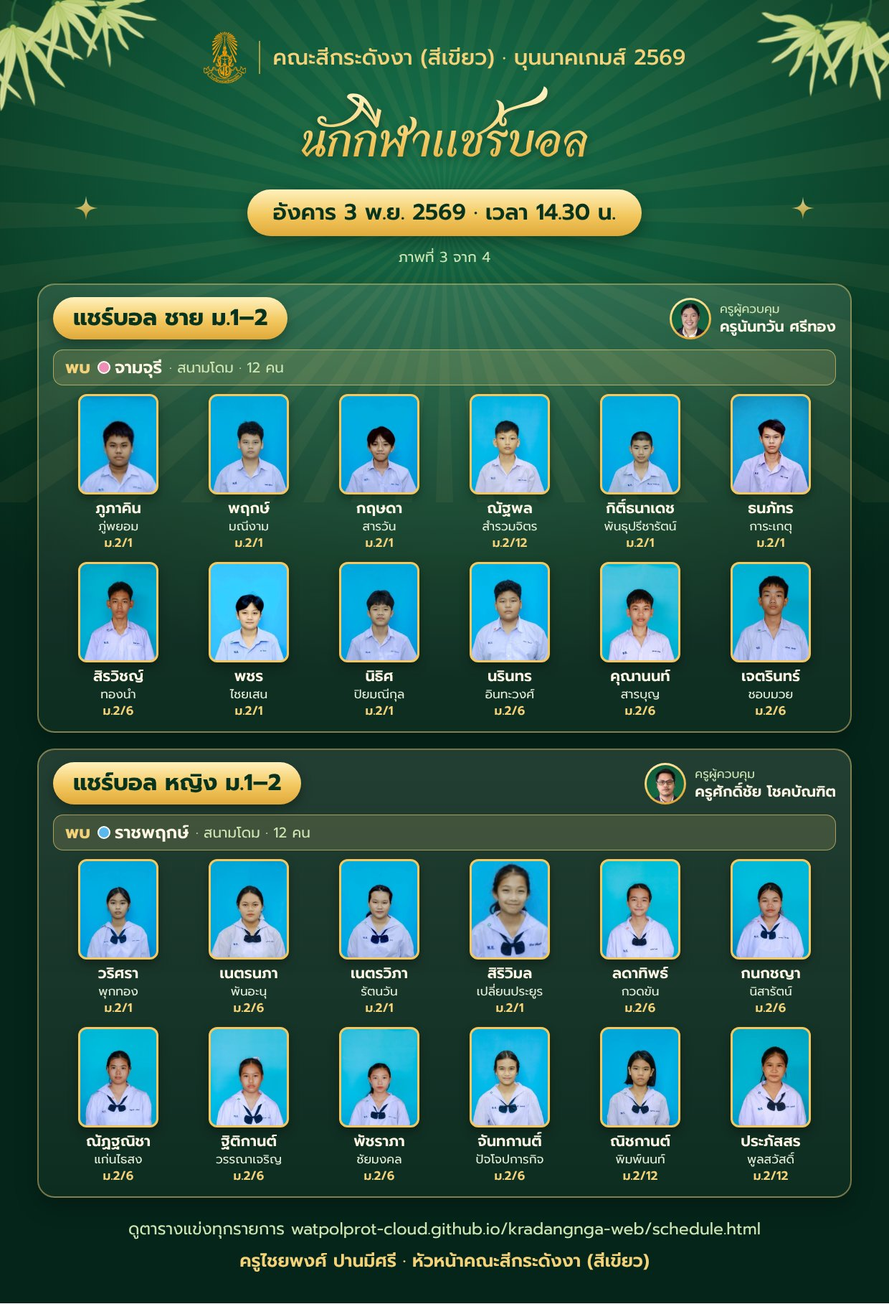
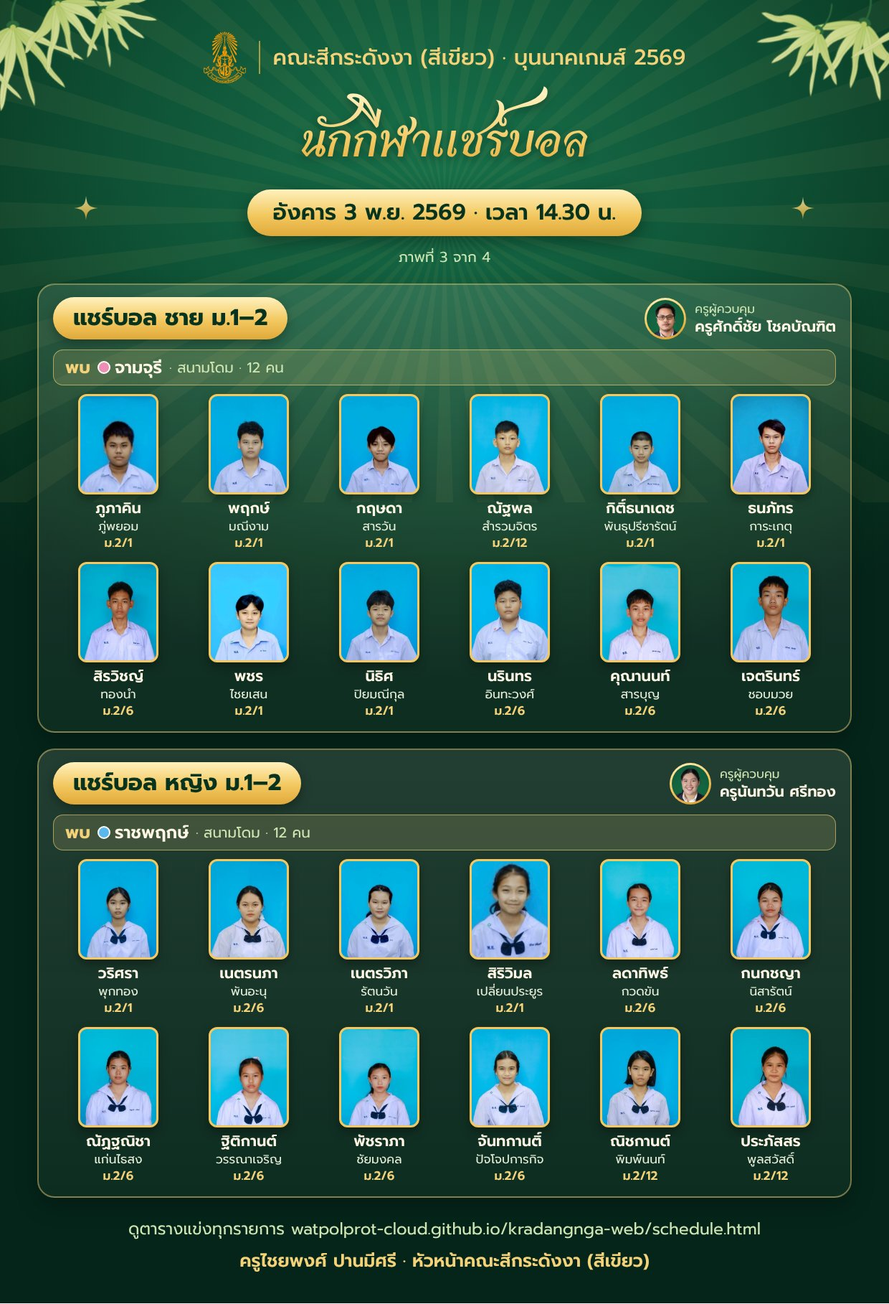
สลับครูผู้ควบคุมแชร์บอล: ชาย ม.1–2 ครูศักดิ์ชัย หญิง ม.1–2 ครูนันทวัน + ภาพ info 3 พ.ย. ฉบับแก้ไข 3
Claude-Session: https://claude.ai/code/session_01LjaNA52Jk9fgkbivbZznUW

Changed region(s): [[0.7048, 0.2157, 0.95, 0.2774], [0.7048, 0.5856, 0.95, 0.6164]]

diff --git a/data/news.js b/data/news.js
@@ -8,7 +8,7 @@ window.KD = window.KD || {};
 KD.news = [
   { date: "2026-11-02", type: "บุนนาคเกมส์", title: "พรุ่งนี้ 3 พ.ย. สีเขียวลงแข่ง 10 รายการ วอลเลย์บอล บาสเกตบอล 3×3 แชร์บอล เปตอง แบดมินตัน · พุธ 4 พ.ย. แข่งต่ออีก 8 รายการ", image: "news_match_2569-11-03.jpg",
     body: "ครูไชยพงศ์ ปานมีศรี หัวหน้าคณะสีกระดังงา (สีเขียว) แจ้งนักกีฬาและครูผู้ควบคุม พรุ่งนี้วันอังคารที่ 3 พฤศจิกายน 2569 เวลา 14.30 น. สีเขียวลงแข่งกีฬาภายในบุนนาคเกมส์ 2569 คู่ที่ 1 รวม 10 รายการ ที่โดม ได้แก่ วอลเลย์บอลชาย ม.1–6 พบจามจุรี วอลเลย์บอลหญิง ม.1–6 พบจามจุรี บาสเกตบอล 3×3 ชาย พบราชพฤกษ์ บาสเกตบอล 3×3 หญิง พบศรีตรัง แชร์บอลชาย ม.1–2 พบจามจุรี แชร์บอลหญิง ม.1–2 พบราชพฤกษ์ ที่ยิม 50 ปี เปตองหญิง ม.1–3 พบราชพฤกษ์ เปตองหญิง ม.4–6 พบจามจุรี และที่ยิมแบด แบดมินตันชาย ม.4–6 พบปาริชาต แบดมินตันหญิง ม.4–6 พบศรีตรัง ทีมที่ชนะได้ไปแข่งคู่ที่ 3 วันพุธที่ 11 พ.ย. 2569 ส่วนวันพุธที่ 4 พฤศจิกายน 2569 เวลา 14.30 น. แข่งต่ออีก 8 รายการ ได้แก่ ตะกร้อชาย ม.1–3 และ ม.4–6 เทเบิลเทนนิสชาย ม.4–6 และหญิง ม.1–3 เปตองชาย ม.1–3 และ ม.4–6 E-sport ROV และ Mobile Legends นักกีฬาเตรียมชุดกีฬาให้พร้อม รายงานตัวกับครูผู้ควบคุมที่สนามก่อนเวลาแข่ง ครูผู้ควบคุมพิมพ์ทะเบียนนักกีฬาที่มีลายเซ็นแม่สีจากหน้าทะเบียนนักกีฬาบนเว็บนำไปด้วย ดูรูปนักกีฬาทุกรายการได้ในภาพ info ทั้ง 4 ภาพ",
-    table: { summary: "ดูรายการแข่ง 3 และ 4 พ.ย. ครบทุกรายการ", head: ["วัน", "รายการ", "พบ", "สนาม", "ครูผู้ควบคุม", "นักกีฬา"], rows: [["อ. 3 พ.ย.", "วอลเลย์บอล ชาย ม.1–6", "จามจุรี (สีชมพู)", "โดม", "ครูมาริษา ปรัชชัยกูล และ ครูมนตรี ฉิมเจริญ", "12"], ["อ. 3 พ.ย.", "วอลเลย์บอล หญิง ม.1–6", "จามจุรี (สีชมพู)", "โดม", "ครูมาริษา ปรัชชัยกูล และ ครูมนตรี ฉิมเจริญ", "12"], ["อ. 3 พ.ย.", "บาสเกตบอล 3×3 ชาย ม.1–6", "ราชพฤกษ์ (สีฟ้า)", "โดม", "ครูปัจฉิมา นินเคนที", "6"], ["อ. 3 พ.ย.", "บาสเกตบอล 3×3 หญิง ม.1–6", "ศรีตรัง (สีแดง)", "โดม", "ครูปัจฉิมา นินเคนที", "6"], ["อ. 3 พ.ย.", "แชร์บอล ชาย ม.1–2", "จามจุรี (สีชมพู)", "โดม", "ครูนันทวัน ศรีทอง", "12"], ["อ. 3 พ.ย.", "แชร์บอล หญิง ม.1–2", "ราชพฤกษ์ (สีฟ้า)", "โดม", "ครูศักดิ์ชัย โชคบัณฑิต", "12"], ["อ. 3 พ.ย.", "เปตอง หญิง ม.1–3", "ราชพฤกษ์ (สีฟ้า)", "ยิม 50 ปี", "ครูศุภาวรรณ จันทะมูล", "3"], ["อ. 3 พ.ย.", "เปตอง หญิง ม.4–6", "จามจุรี (สีชมพู)", "ยิม 50 ปี", "ครูศุภาวรรณ จันทะมูล", "5"], ["อ. 3 พ.ย.", "แบดมินตัน ชาย ม.4–6", "ปาริชาต (สีน้ำเงิน)", "ยิมแบด", "ครูณัฐนนท์ ลิ้มทองคำ", "2"], ["อ. 3 พ.ย.", "แบดมินตัน หญิง ม.4–6", "ศรีตรัง (สีแดง)", "ยิมแบด", "ครูธนิษฐา ดีสม", "2"], ["พ. 4 พ.ย.", "ตะกร้อ ชาย ม.1–3", "ศรีตรัง (สีแดง)", "โดม", "ครูกาญจณ์สุดา รัตนพร", "5"], ["พ. 4 พ.ย.", "ตะกร้อ ชาย ม.4–6", "ราชพฤกษ์ (สีฟ้า)", "โดม", "ครูลลิตา อินไชยา", "5"], ["พ. 4 พ.ย.", "เทเบิลเทนนิส ชาย ม.4–6", "จามจุรี (สีชมพู)", "ยิมแบด", "ครูมนัสวี อ้นสนกราน", "1"], ["พ. 4 พ.ย.", "เทเบิลเทนนิส หญิง ม.1–3", "จามจุรี (สีชมพู)", "ยิมแบด", "รอแจ้ง", "1"], ["พ. 4 พ.ย.", "เปตอง ชาย ม.1–3", "จามจุรี (สีชมพู)", "ยิม 50 ปี", "ครูศุภาวรรณ จันทะมูล", "5"], ["พ. 4 พ.ย.", "เปตอง ชาย ม.4–6", "ราชพฤกษ์ (สีฟ้า)", "ยิม 50 ปี", "ครูจุฬาลักษณ์ กุลบุตรดี", "4"], ["พ. 4 พ.ย.", "E-sport ROV", "ศรีตรัง (สีแดง)", "ห้องปฏิบัติการคอมพิวเตอร์ 1", "ครูภวภัค จินนุกูล", "7"], ["พ. 4 พ.ย.", "E-sport Mobile Legends", "จามจุรี (สีชมพู)", "ห้องปฏิบัติการคอมพิวเตอร์ 1", "ครูธวัชชัย พาลาศรี", "6"]] },
+    table: { summary: "ดูรายการแข่ง 3 และ 4 พ.ย. ครบทุกรายการ", head: ["วัน", "รายการ", "พบ", "สนาม", "ครูผู้ควบคุม", "นักกีฬา"], rows: [["อ. 3 พ.ย.", "วอลเลย์บอล ชาย ม.1–6", "จามจุรี (สีชมพู)", "โดม", "ครูมาริษา ปรัชชัยกูล และ ครูมนตรี ฉิมเจริญ", "12"], ["อ. 3 พ.ย.", "วอลเลย์บอล หญิง ม.1–6", "จามจุรี (สีชมพู)", "โดม", "ครูมาริษา ปรัชชัยกูล และ ครูมนตรี ฉิมเจริญ", "12"], ["อ. 3 พ.ย.", "บาสเกตบอล 3×3 ชาย ม.1–6", "ราชพฤกษ์ (สีฟ้า)", "โดม", "ครูปัจฉิมา นินเคนที", "6"], ["อ. 3 พ.ย.", "บาสเกตบอล 3×3 หญิง ม.1–6", "ศรีตรัง (สีแดง)", "โดม", "ครูปัจฉิมา นินเคนที", "6"], ["อ. 3 พ.ย.", "แชร์บอล ชาย ม.1–2", "จามจุรี (สีชมพู)", "โดม", "ครูศักดิ์ชัย โชคบัณฑิต", "12"], ["อ. 3 พ.ย.", "แชร์บอล หญิง ม.1–2", "ราชพฤกษ์ (สีฟ้า)", "โดม", "ครูนันทวัน ศรีทอง", "12"], ["อ. 3 พ.ย.", "เปตอง หญิง ม.1–3", "ราชพฤกษ์ (สีฟ้า)", "ยิม 50 ปี", "ครูศุภาวรรณ จันทะมูล", "3"], ["อ. 3 พ.ย.", "เปตอง หญิง ม.4–6", "จามจุรี (สีชมพู)", "ยิม 50 ปี", "ครูศุภาวรรณ จันทะมูล", "5"], ["อ. 3 พ.ย.", "แบดมินตัน ชาย ม.4–6", "ปาริชาต (สีน้ำเงิน)", "ยิมแบด", "ครูณัฐนนท์ ลิ้มทองคำ", "2"], ["อ. 3 พ.ย.", "แบดมินตัน หญิง ม.4–6", "ศรีตรัง (สีแดง)", "ยิมแบด", "ครูธนิษฐา ดีสม", "2"], ["พ. 4 พ.ย.", "ตะกร้อ ชาย ม.1–3", "ศรีตรัง (สีแดง)", "โดม", "ครูกาญจณ์สุดา รัตนพร", "5"], ["พ. 4 พ.ย.", "ตะกร้อ ชาย ม.4–6", "ราชพฤกษ์ (สีฟ้า)", "โดม", "ครูลลิตา อินไชยา", "5"], ["พ. 4 พ.ย.", "เทเบิลเทนนิส ชาย ม.4–6", "จามจุรี (สีชมพู)", "ยิมแบด", "ครูมนัสวี อ้นสนกราน", "1"], ["พ. 4 พ.ย.", "เทเบิลเทนนิส หญิง ม.1–3", "จามจุรี (สีชมพู)", "ยิมแบด", "รอแจ้ง", "1"], ["พ. 4 พ.ย.", "เปตอง ชาย ม.1–3", "จามจุรี (สีชมพู)", "ยิม 50 ปี", "ครูศุภาวรรณ จันทะมูล", "5"], ["พ. 4 พ.ย.", "เปตอง ชาย ม.4–6", "ราชพฤกษ์ (สีฟ้า)", "ยิม 50 ปี", "ครูจุฬาลักษณ์ กุลบุตรดี", "4"], ["พ. 4 พ.ย.", "E-sport ROV", "ศรีตรัง (สีแดง)", "ห้องปฏิบัติการคอมพิวเตอร์ 1", "ครูภวภัค จินนุกูล", "7"], ["พ. 4 พ.ย.", "E-sport Mobile Legends", "จามจุรี (สีชมพู)", "ห้องปฏิบัติการคอมพิวเตอร์ 1", "ครูธวัชชัย พาลาศรี", "6"]] },
     link: "assets/img/gallery/info_match_2569-11-03_1.jpg", linkText: "เปิดภาพ info รายการแข่ง 3 พ.ย. (ภาพรวม)", link2: "schedule.html", linkText2: "ดูตารางแข่งทุกรายการ" },
   { date: "2026-11-02", type: "บุนนาคเกมส์", title: "ขอบคุณและยินดีด้วย สีเขียวได้อันดับ 1 การเข้าแถวคณะสี วันจันทร์ที่ 2 พ.ย. 2569 ร่วมกับสีฟ้า", image: "news_lineup_result_2569-11-02_v2.jpg",
     body: "โรงเรียนประกาศผลการเข้าแถวคณะสี ประจำวันจันทร์ที่ 2 พฤศจิกายน 2569 คณะสีกระดังงา (สีเขียว) ได้อันดับ 1 ร่วมกับราชพฤกษ์ (สีฟ้า) อันดับ 2 ศรีตรัง (สีแดง) และอันดับ 3 ปาริชาติ (สีน้ำเงิน) กับจามจุรี (สีชมพู) ครูไชยพงศ์ ปานมีศรี หัวหน้าคณะสี ขอบคุณครูที่ปรึกษาทุกห้องที่ช่วยกำชับและดูแลแถว ครูเวรตรวจแถวที่มาทำหน้าที่ตั้งแต่เช้า และขอแสดงความยินดีกับนักเรียนสีเขียวทุกคนที่มาตรงเวลา นั่งแถวอย่างมีวินัย ร้องเพลงชาติพร้อมกัน และช่วยกันรักษาความสะอาด ขอให้รักษามาตรฐานนี้ไว้ทุกเช้า นั่งพร้อมในแถวภายใน 07.55 น. ไม่คุย ไม่กิน ร้องเพลงชาติ และไม่ทิ้งขยะ เพื่อคว้ารางวัลถ้วยวินัยบุนนาคเกมส์ ครั้งที่ 77 ไปด้วยกัน",
@@ -81,7 +81,7 @@ KD.news = [
   { date: "2026-10-22", type: "บุนนาคเกมส์", title: "ครูผู้ควบคุมนักกีฬา และวันแข่งขันกีฬา 28 ต.ค. 4 พ.ย. 11 พ.ย.", image: "news_coaches_2569.jpg",
     body: "คณะสีกระดังงา (สีเขียว) ประกาศรายชื่อคุณครูผู้ควบคุมนักกีฬาแต่ละรายการ การแข่งขันกีฬามีทั้งหมด 3 วัน คือ วันพุธที่ 28 ตุลาคม วันพุธที่ 4 พฤศจิกายน และวันพุธที่ 11 พฤศจิกายน 2569 หน้าที่ของครูผู้ควบคุมนักกีฬาคือ ดูแลนักเรียน ส่งนักเรียนเข้าแข่งขัน และอยู่กับนักเรียนตลอดการแข่งขัน ตามกติกา รายการที่ไม่มีครูผู้ควบคุมนำนักกีฬาไปส่งและดูแลจนจบ นักกีฬาจะไม่ได้ลงแข่ง ฝ่ายสวัสดิการ ได้แก่ ครูศจินันท์ ตาตะนันทน์ ครูนฤมล มะโนมัย ครูชนันญภัค คชอาจ ครูประภัสสร แสนศิริ ครูสุรินทร์ภรณ์ แสนหลวง ครูศุภฤกษ์ เชื้อมั่น และขอบใจนักเรียนสีเขียวที่ร่วมสนับสนุนน้ำดื่ม 70 แพ็ค",
     link: "games.html#coaches", linkText: "ดูครูผู้ควบคุมนักกีฬาพร้อมรูป", link2: "assets/img/gallery/info_coaches_2569.jpg", linkText2: "เปิดภาพ info",
-    table: { summary: "ดูรายชื่อครูผู้ควบคุมแต่ละรายการ", head: ["ชนิดกีฬา", "รายการ", "ครูผู้ควบคุม"], rows: [["ฟุตบอล", "ชาย ม.3–6", "ครูนพพล ภาณุสุวัฒน์"], ["ฟุตซอล", "ชาย ม.1–3", "ครูสุภัทรชัย สืบสกุล"], ["ฟุตซอล", "ชาย ม.4–6", "ครูนุกูล แสงวรรณเทศ"], ["วอลเลย์บอล", "ชาย ม.1–6", "ครูมาริษา ปรัชชัยกูล และ ครูมนตรี ฉิมเจริญ"], ["วอลเลย์บอล", "หญิง ม.1–6", "ครูมาริษา ปรัชชัยกูล และ ครูมนตรี ฉิมเจริญ"], ["ตะกร้อ", "ชาย ม.1–3", "ครูกาญจณ์สุดา รัตนพร"], ["ตะกร้อ", "ชาย ม.4–6", "ครูลลิตา อินไชยา"], ["บาสเกตบอล 3×3", "ชาย ม.1–6", "ครูปัจฉิมา นินเคนที"], ["แชร์บอล", "ชาย ม.1–2", "ครูนันทวัน ศรีทอง"], ["แชร์บอล", "หญิง ม.1–2", "ครูศักดิ์ชัย โชคบัณฑิต"], ["เทเบิลเทนนิส", "ชาย ม.1–3", "ครูอนันตกานต์ ทองสมบูรณ์"], ["เทเบิลเทนนิส", "ชาย ม.4–6", "ครูมนัสวี อ้นสนกราน"], ["กรีฑา", "100 เมตร ชาย", "ครูนันทวัน ศรีทอง"], ["กรีฑา", "100 เมตร หญิง", "ครูวราทิพย์ ศรีอ่ำอ่วม"], ["กรีฑา", "200 เมตร ชาย", "ครูอุทัย นุ่นดำ"], ["E-sport", "ROV", "ครูภวภัค จินนุกูล"], ["E-sport", "Free Fire", "ครูธนาวุฒิ อดิษะ"], ["E-sport", "VALORANT", "ครูธวัชชัย พาลาศรี"], ["เปตอง", "ชาย ม.1–3", "ครูศุภาวรรณ จันทะมูล"], ["เปตอง", "ชาย ม.4–6", "ครูจุฬาลักษณ์ กุลบุตรดี"], ["แบดมินตัน", "ชาย ม.1–3", "ครูธนิษฐา ดีสม"], ["แบดมินตัน", "ชาย ม.4–6", "ครูณัฐนนท์ ลิ้มทองคำ"]] } },
+    table: { summary: "ดูรายชื่อครูผู้ควบคุมแต่ละรายการ", head: ["ชนิดกีฬา", "รายการ", "ครูผู้ควบคุม"], rows: [["ฟุตบอล", "ชาย ม.3–6", "ครูนพพล ภาณุสุวัฒน์"], ["ฟุตซอล", "ชาย ม.1–3", "ครูสุภัทรชัย สืบสกุล"], ["ฟุตซอล", "ชาย ม.4–6", "ครูนุกูล แสงวรรณเทศ"], ["วอลเลย์บอล", "ชาย ม.1–6", "ครูมาริษา ปรัชชัยกูล และ ครูมนตรี ฉิมเจริญ"], ["วอลเลย์บอล", "หญิง ม.1–6", "ครูมาริษา ปรัชชัยกูล และ ครูมนตรี ฉิมเจริญ"], ["ตะกร้อ", "ชาย ม.1–3", "ครูกาญจณ์สุดา รัตนพร"], ["ตะกร้อ", "ชาย ม.4–6", "ครูลลิตา อินไชยา"], ["บาสเกตบอล 3×3", "ชาย ม.1–6", "ครูปัจฉิมา นินเคนที"], ["แชร์บอล", "ชาย ม.1–2", "ครูศักดิ์ชัย โชคบัณฑิต"], ["แชร์บอล", "หญิง ม.1–2", "ครูนันทวัน ศรีทอง"], ["เทเบิลเทนนิส", "ชาย ม.1–3", "ครูอนันตกานต์ ทองสมบูรณ์"], ["เทเบิลเทนนิส", "ชาย ม.4–6", "ครูมนัสวี อ้นสนกราน"], ["กรีฑา", "100 เมตร ชาย", "ครูนันทวัน ศรีทอง"], ["กรีฑา", "100 เมตร หญิง", "ครูวราทิพย์ ศรีอ่ำอ่วม"], ["กรีฑา", "200 เมตร ชาย", "ครูอุทัย นุ่นดำ"], ["E-sport", "ROV", "ครูภวภัค จินนุกูล"], ["E-sport", "Free Fire", "ครูธนาวุฒิ อดิษะ"], ["E-sport", "VALORANT", "ครูธวัชชัย พาลาศรี"], ["เปตอง", "ชาย ม.1–3", "ครูศุภาวรรณ จันทะมูล"], ["เปตอง", "ชาย ม.4–6", "ครูจุฬาลักษณ์ กุลบุตรดี"], ["แบดมินตัน", "ชาย ม.1–3", "ครูธนิษฐา ดีสม"], ["แบดมินตัน", "ชาย ม.4–6", "ครูณัฐนนท์ ลิ้มทองคำ"]] } },
   { date: "2026-10-22", type: "ประกาศ", title: "วันเปิดภาคเรียน 26 ต.ค. เข้าแถวเคารพธงชาติตามคณะสี", image: "news_assembly_2569-2_v2.jpg",
     body: "วันจันทร์ที่ 26 ตุลาคม 2569 วันเปิดภาคเรียนที่ 2 นักเรียนเข้าแถวเคารพธงชาติตามคณะสี ตามผังการเข้าแถวภาคเรียนที่ 2 ปีการศึกษา 2569 คณะสีกระดังงา (สีเขียว) อยู่แถวที่ 3 ซึ่งเป็นแถวกลาง นับจากฝั่งอาคาร 1 อยู่ระหว่างคณะสีราชพฤกษ์ (ฟ้า) กับคณะสีศรีตรัง (แดง) หันหน้าไปทางเวที ในแถวของสีเขียวเรียงตามระดับชั้นจาก ม.6 ฝั่งอาคาร 1 ไปจนถึง ม.1 ฝั่งเสาธงชาติ นักเรียนสีเขียวมองหาธงคณะสีเขียวหน้าแถว แล้วต่อแถวตามระดับชั้นของตนเอง ห้องของสีเขียวมี 17 ห้อง ได้แก่ ม.6/3 ม.6/9 ม.6/14 · ม.5/4 ม.5/7 ม.5/11 · ม.4/2 ม.4/8 ม.4/13 · ม.3/5 ม.3/7 ม.3/12 · ม.2/1 ม.2/6 ม.2/12 · ม.1/4 ม.1/10 ในช่องของแต่ละระดับชั้น ห้องเลขน้อยอยู่ทางขวา ห้องเลขมากอยู่ทางซ้าย ดูครูที่ปรึกษาและจำนวนนักเรียนของแต่ละห้องได้โดยกดที่ห้องในผังบนหน้าทำเนียบนักเรียน ครูที่ปรึกษาช่วยแจ้งนักเรียนในห้องและดูแลการเข้าแถว ถ้าสงสัยสอบถามครูที่ปรึกษาหรือครูไชยพงศ์ ปานมีศรี หัวหน้าคณะสีได้เลย",
     link: "students.html#rooms", linkText: "กดดูข้อมูลแต่ละห้อง",

diff --git a/data/coaches.js b/data/coaches.js
@@ -1,4 +1,4 @@
-// ครูคณะสีกระดังงาผู้ควบคุมนักกีฬา บุนนาคเกมส์ 2569 (ข้อมูลจากพี่ต้น 22 ต.ค. 2569 · เพิ่มครูผู้ควบคุม Mobile Legends 26 ต.ค. 2569 · วันแข่งปรับตามตารางแข่งฉบับล่าสุด 2 พ.ย. 2569 · ครูผู้ควบคุมบาส 3×3 หญิง เปตองหญิง 2 รุ่น และแบดมินตันหญิง ม.4–6 จากพี่ต้น 2 พ.ย. 2569)
+// ครูคณะสีกระดังงาผู้ควบคุมนักกีฬา บุนนาคเกมส์ 2569 (ข้อมูลจากพี่ต้น 22 ต.ค. 2569 · เพิ่มครูผู้ควบคุม Mobile Legends 26 ต.ค. 2569 · วันแข่งปรับตามตารางแข่งฉบับล่าสุด 2 พ.ย. 2569 · ครูผู้ควบคุมบาส 3×3 หญิง เปตองหญิง 2 รุ่น และแบดมินตันหญิง ม.4–6 จากพี่ต้น 2 พ.ย. 2569 · สลับครูแชร์บอลชาย/หญิง ตามพี่ต้น 2 พ.ย. 2569)
 // coaches: รายการแข่งขัน -> ครูสีเขียวที่ดูแล (pending = จำนวนครูที่ยังรอประกาศชื่อ) · ชื่อครูต้องตรงกับ data/teachers.js เพื่อดึงรูป
 window.KD = window.KD || {};
 KD.coachMeta = {
@@ -73,8 +73,8 @@ KD.coaches = [
   {"no": 4, "sport": "ตะกร้อ", "div": "หญิง ม.1–6", "teachers": [], "pending": 0},
   {"no": 5, "sport": "บาสเกตบอล 3×3", "div": "ชาย ม.1–6", "teachers": ["ครูปัจฉิมา นินเคนที"], "pending": 0},
   {"no": 5, "sport": "บาสเกตบอล 3×3", "div": "หญิง ม.1–6", "teachers": ["ครูปัจฉิมา นินเคนที"], "pending": 0},
-  {"no": 6, "sport": "แชร์บอล", "div": "ชาย ม.1–2", "teachers": ["ครูนันทวัน ศรีทอง"], "pending": 0},
-  {"no": 6, "sport": "แชร์บอล", "div": "หญิง ม.1–2", "teachers": ["ครูศักดิ์ชัย โชคบัณฑิต"], "pending": 0},
+  {"no": 6, "sport": "แชร์บอล", "div": "ชาย ม.1–2", "teachers": ["ครูศักดิ์ชัย โชคบัณฑิต"], "pending": 0},
+  {"no": 6, "sport": "แชร์บอล", "div": "หญิง ม.1–2", "teachers": ["ครูนันทวัน ศรีทอง"], "pending": 0},
   {"no": 7, "sport": "เทเบิลเทนนิส", "div": "ชาย ม.1–3", "teachers": ["ครูอนันตกานต์ ทองสมบูรณ์"], "pending": 0},
   {"no": 7, "sport": "เทเบิลเทนนิส", "div": "หญิง ม.1–3", "teachers": [], "pending": 0},
   {"no": 7, "sport": "เทเบิลเทนนิส", "div": "ชาย ม.4–6", "teachers": ["ครูมนัสวี อ้นสนกราน"], "pending": 0},
